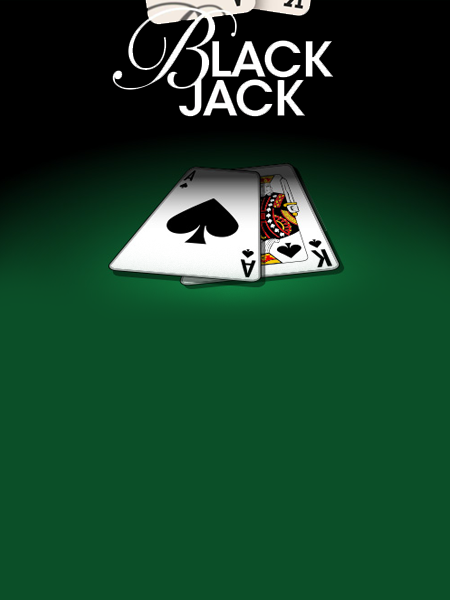
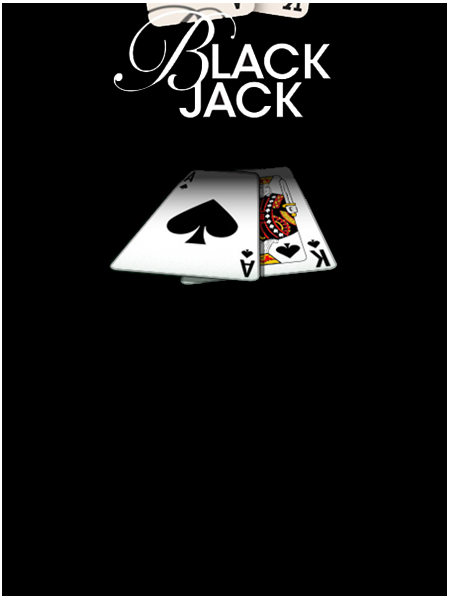
Change background image

diff --git a/BlackjackWithGUI/src/view/WelcomeSettingPanel.java b/BlackjackWithGUI/src/view/WelcomeSettingPanel.java
@@ -5,6 +5,7 @@ package view;
 
 import File.DBOperations;
 import Graphic.DarkPalette;
+import View.Table;
 import View.View;
 import java.awt.*;
 import java.awt.event.ActionListener;
